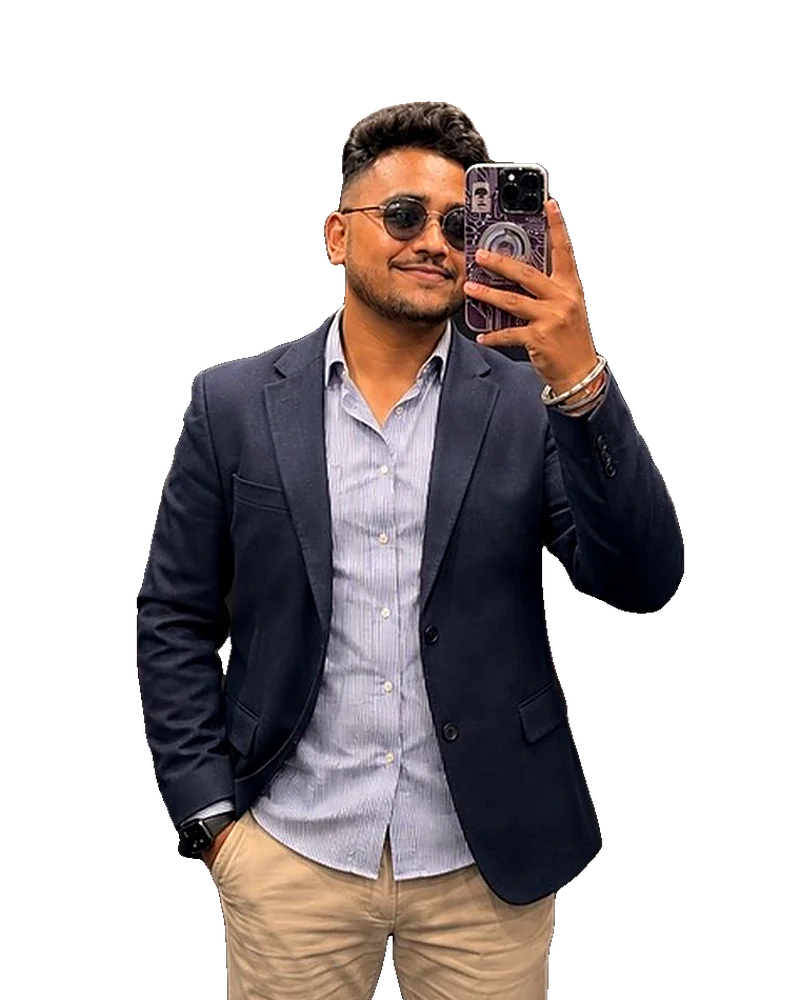
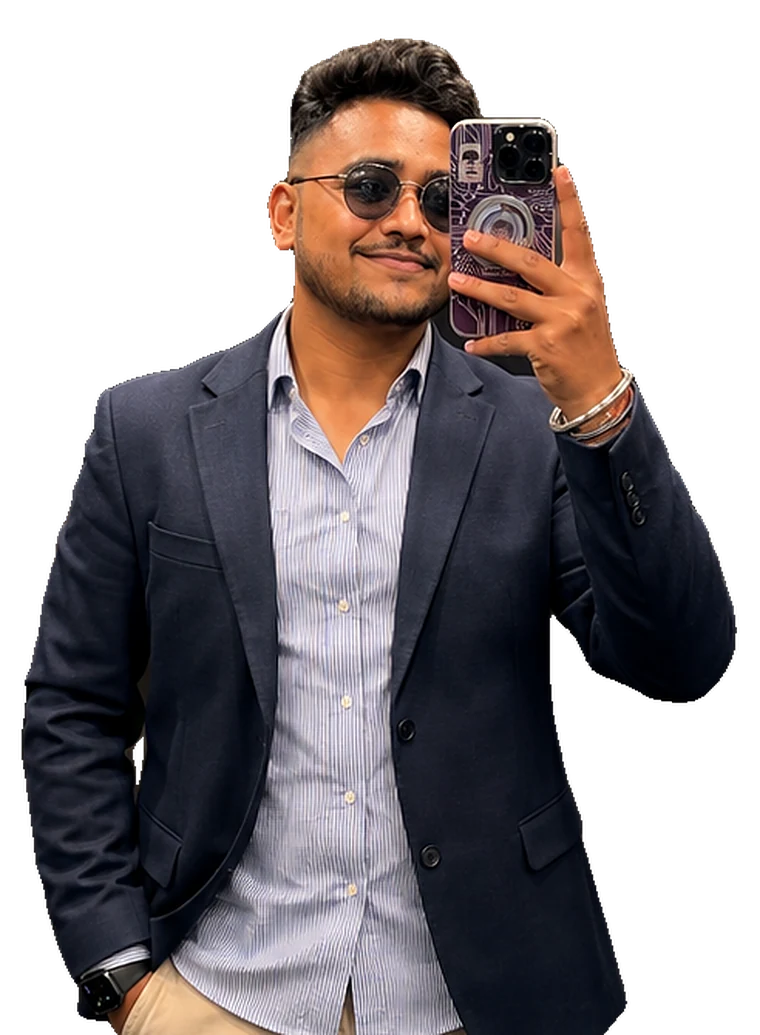
Hero: new cutout portrait standing on the line, name on one line, soft shadow
Claude-Session: https://claude.ai/code/session_01J7n3YQ4y9QiDkrJYfAYANg

diff --git a/dist/index.html b/dist/index.html
@@ -108,11 +108,18 @@ body::before{content:"";position:fixed;inset:0 0 auto;height:env(safe-area-inset
 .hero h1 .stop{display:inline-block;width:.17em;height:.17em;border-radius:50%;background:var(--research);margin-left:.04em;vertical-align:baseline}
 .lede{font-size:clamp(23px,2.5vw,31px);line-height:1.28;margin-top:26px;max-width:23ch}
 .lede span{display:block;color:var(--ink-3);font-style:italic;font-size:.7em;margin-top:10px}
-.portrait{margin:0;max-width:380px;justify-self:end;width:100%}
-.portrait .ph{position:relative;aspect-ratio:4/5;border-radius:3px;overflow:hidden;background:var(--paper-2)}
-.portrait .ph::before{content:"";position:absolute;width:71%;aspect-ratio:1;left:19%;top:4%;border-radius:50%;background:var(--build-soft)}
-.portrait img{position:relative;display:block;width:100%;height:100%;object-fit:cover;filter:drop-shadow(6px 10px 12px rgba(20,27,48,.18))}
-.portrait figcaption{font-family:var(--display);font-size:13px;color:var(--ink-3);margin-top:8px;display:flex;justify-content:space-between}
+.portrait{margin:0 0 -44px;max-width:380px;justify-self:end;width:100%;align-self:end}
+.portrait img{display:block;width:100%;height:auto;position:relative;filter:drop-shadow(-10px 16px 24px rgba(20,27,48,.22)) drop-shadow(0 2px 4px rgba(20,27,48,.12))}
+.portrait{position:relative}
+@media (min-width:901px){
+  .hero-grid{grid-template-columns:1fr;position:relative}
+  .hero h1{white-space:nowrap;font-size:clamp(70px,12.4vw,160px);position:relative;z-index:1}
+  .hero h1 br{display:none}
+  .hero-grid > div:first-child{position:relative;z-index:1;padding-top:40px}
+  .portrait{position:absolute;right:0;bottom:-44px;max-width:none;width:auto;margin:0;z-index:2;pointer-events:none}
+  .portrait img{height:clamp(400px,35vw,520px);width:auto;max-width:none}
+  .hero{padding-top:84px}
+}
 
 .now{margin-top:44px;display:grid;grid-template-columns:repeat(4,minmax(0,1fr));border-top:2px solid var(--ink);border-bottom:1px solid var(--rule)}
 .now div{padding:16px 18px 18px 0;display:flex;flex-direction:column;gap:6px;min-width:0}
@@ -372,7 +379,7 @@ section.block{padding-block:72px}
 
 /* ---------- responsive base ---------- */
 @media (max-width:1000px){.doors{grid-template-columns:repeat(2,minmax(0,1fr))}.now{grid-template-columns:repeat(2,minmax(0,1fr))}.now div:nth-child(3){padding-left:0;border-left:0}.now div:nth-child(-n+2){border-bottom:1px solid var(--rule)}}
-@media (max-width:900px){.hero-grid,.story-head{grid-template-columns:1fr}.portrait{justify-self:start;max-width:300px}}
+@media (max-width:900px){.hero-grid,.story-head{grid-template-columns:1fr}.portrait{justify-self:center;max-width:260px}}
 @media (max-width:560px){
   body{font-size:18px}
   .doors{grid-template-columns:1fr}.door{min-height:0}
@@ -427,13 +434,10 @@ section.block{padding-block:72px}
     <div class="hero-grid">
       <div>
         <p class="label">London · since 2020</p>
-        <h1><span class="ln" style="display:inline-block">Suraj</span><br><span class="ln" style="display:inline-block">Shaw<span class="stop" aria-hidden="true"></span></span></h1>
+        <h1><span class="ln" style="display:inline-block">Suraj</span> <br><span class="ln" style="display:inline-block">Shaw<span class="stop" aria-hidden="true"></span></span></h1>
         <p class="lede">I build systems by day and make drinks by night.<span>Most people call me Shaw.</span></p>
       </div>
-      <figure class="portrait">
-        <div class="ph"><img src="assets/shaw-portrait.webp" alt="Suraj Shaw in a navy blazer and sunglasses, holding up his phone for a selfie" width="800" height="1000"></div>
-        <figcaption><span>London.</span><span>2026</span></figcaption>
-      </figure>
+      <figure class="portrait"><img src="assets/shaw-portrait.webp" alt="Suraj Shaw in a navy blazer, striped shirt and chinos, taking a mirror selfie" width="760" height="1035"></figure>
     </div>
 
     <div class="now" aria-label="What I am doing right now">

diff --git a/dist/builder.html b/dist/builder.html
@@ -107,11 +107,18 @@ body::before{content:"";position:fixed;inset:0 0 auto;height:env(safe-area-inset
 .hero h1 .stop{display:inline-block;width:.17em;height:.17em;border-radius:50%;background:var(--research);margin-left:.04em;vertical-align:baseline}
 .lede{font-size:clamp(23px,2.5vw,31px);line-height:1.28;margin-top:26px;max-width:23ch}
 .lede span{display:block;color:var(--ink-3);font-style:italic;font-size:.7em;margin-top:10px}
-.portrait{margin:0;max-width:380px;justify-self:end;width:100%}
-.portrait .ph{position:relative;aspect-ratio:4/5;border-radius:3px;overflow:hidden;background:var(--paper-2)}
-.portrait .ph::before{content:"";position:absolute;width:71%;aspect-ratio:1;left:19%;top:4%;border-radius:50%;background:var(--build-soft)}
-.portrait img{position:relative;display:block;width:100%;height:100%;object-fit:cover;filter:drop-shadow(6px 10px 12px rgba(20,27,48,.18))}
-.portrait figcaption{font-family:var(--display);font-size:13px;color:var(--ink-3);margin-top:8px;display:flex;justify-content:space-between}
+.portrait{margin:0 0 -44px;max-width:380px;justify-self:end;width:100%;align-self:end}
+.portrait img{display:block;width:100%;height:auto;position:relative;filter:drop-shadow(-10px 16px 24px rgba(20,27,48,.22)) drop-shadow(0 2px 4px rgba(20,27,48,.12))}
+.portrait{position:relative}
+@media (min-width:901px){
+  .hero-grid{grid-template-columns:1fr;position:relative}
+  .hero h1{white-space:nowrap;font-size:clamp(70px,12.4vw,160px);position:relative;z-index:1}
+  .hero h1 br{display:none}
+  .hero-grid > div:first-child{position:relative;z-index:1;padding-top:40px}
+  .portrait{position:absolute;right:0;bottom:-44px;max-width:none;width:auto;margin:0;z-index:2;pointer-events:none}
+  .portrait img{height:clamp(400px,35vw,520px);width:auto;max-width:none}
+  .hero{padding-top:84px}
+}
 
 .now{margin-top:44px;display:grid;grid-template-columns:repeat(4,minmax(0,1fr));border-top:2px solid var(--ink);border-bottom:1px solid var(--rule)}
 .now div{padding:16px 18px 18px 0;display:flex;flex-direction:column;gap:6px;min-width:0}
@@ -371,7 +378,7 @@ section.block{padding-block:72px}
 
 /* ---------- responsive base ---------- */
 @media (max-width:1000px){.doors{grid-template-columns:repeat(2,minmax(0,1fr))}.now{grid-template-columns:repeat(2,minmax(0,1fr))}.now div:nth-child(3){padding-left:0;border-left:0}.now div:nth-child(-n+2){border-bottom:1px solid var(--rule)}}
-@media (max-width:900px){.hero-grid,.story-head{grid-template-columns:1fr}.portrait{justify-self:start;max-width:300px}}
+@media (max-width:900px){.hero-grid,.story-head{grid-template-columns:1fr}.portrait{justify-self:center;max-width:260px}}
 @media (max-width:560px){
   body{font-size:18px}
   .doors{grid-template-columns:1fr}.door{min-height:0}

diff --git a/dist/guardian.html b/dist/guardian.html
@@ -107,11 +107,18 @@ body::before{content:"";position:fixed;inset:0 0 auto;height:env(safe-area-inset
 .hero h1 .stop{display:inline-block;width:.17em;height:.17em;border-radius:50%;background:var(--research);margin-left:.04em;vertical-align:baseline}
 .lede{font-size:clamp(23px,2.5vw,31px);line-height:1.28;margin-top:26px;max-width:23ch}
 .lede span{display:block;color:var(--ink-3);font-style:italic;font-size:.7em;margin-top:10px}
-.portrait{margin:0;max-width:380px;justify-self:end;width:100%}
-.portrait .ph{position:relative;aspect-ratio:4/5;border-radius:3px;overflow:hidden;background:var(--paper-2)}
-.portrait .ph::before{content:"";position:absolute;width:71%;aspect-ratio:1;left:19%;top:4%;border-radius:50%;background:var(--build-soft)}
-.portrait img{position:relative;display:block;width:100%;height:100%;object-fit:cover;filter:drop-shadow(6px 10px 12px rgba(20,27,48,.18))}
-.portrait figcaption{font-family:var(--display);font-size:13px;color:var(--ink-3);margin-top:8px;display:flex;justify-content:space-between}
+.portrait{margin:0 0 -44px;max-width:380px;justify-self:end;width:100%;align-self:end}
+.portrait img{display:block;width:100%;height:auto;position:relative;filter:drop-shadow(-10px 16px 24px rgba(20,27,48,.22)) drop-shadow(0 2px 4px rgba(20,27,48,.12))}
+.portrait{position:relative}
+@media (min-width:901px){
+  .hero-grid{grid-template-columns:1fr;position:relative}
+  .hero h1{white-space:nowrap;font-size:clamp(70px,12.4vw,160px);position:relative;z-index:1}
+  .hero h1 br{display:none}
+  .hero-grid > div:first-child{position:relative;z-index:1;padding-top:40px}
+  .portrait{position:absolute;right:0;bottom:-44px;max-width:none;width:auto;margin:0;z-index:2;pointer-events:none}
+  .portrait img{height:clamp(400px,35vw,520px);width:auto;max-width:none}
+  .hero{padding-top:84px}
+}
 
 .now{margin-top:44px;display:grid;grid-template-columns:repeat(4,minmax(0,1fr));border-top:2px solid var(--ink);border-bottom:1px solid var(--rule)}
 .now div{padding:16px 18px 18px 0;display:flex;flex-direction:column;gap:6px;min-width:0}
@@ -371,7 +378,7 @@ section.block{padding-block:72px}
 
 /* ---------- responsive base ---------- */
 @media (max-width:1000px){.doors{grid-template-columns:repeat(2,minmax(0,1fr))}.now{grid-template-columns:repeat(2,minmax(0,1fr))}.now div:nth-child(3){padding-left:0;border-left:0}.now div:nth-child(-n+2){border-bottom:1px solid var(--rule)}}
-@media (max-width:900px){.hero-grid,.story-head{grid-template-columns:1fr}.portrait{justify-self:start;max-width:300px}}
+@media (max-width:900px){.hero-grid,.story-head{grid-template-columns:1fr}.portrait{justify-self:center;max-width:260px}}
 @media (max-width:560px){
   body{font-size:18px}
   .doors{grid-template-columns:1fr}.door{min-height:0}

diff --git a/dist/human.html b/dist/human.html
@@ -107,11 +107,18 @@ body::before{content:"";position:fixed;inset:0 0 auto;height:env(safe-area-inset
 .hero h1 .stop{display:inline-block;width:.17em;height:.17em;border-radius:50%;background:var(--research);margin-left:.04em;vertical-align:baseline}
 .lede{font-size:clamp(23px,2.5vw,31px);line-height:1.28;margin-top:26px;max-width:23ch}
 .lede span{display:block;color:var(--ink-3);font-style:italic;font-size:.7em;margin-top:10px}
-.portrait{margin:0;max-width:380px;justify-self:end;width:100%}
-.portrait .ph{position:relative;aspect-ratio:4/5;border-radius:3px;overflow:hidden;background:var(--paper-2)}
-.portrait .ph::before{content:"";position:absolute;width:71%;aspect-ratio:1;left:19%;top:4%;border-radius:50%;background:var(--build-soft)}
-.portrait img{position:relative;display:block;width:100%;height:100%;object-fit:cover;filter:drop-shadow(6px 10px 12px rgba(20,27,48,.18))}
-.portrait figcaption{font-family:var(--display);font-size:13px;color:var(--ink-3);margin-top:8px;display:flex;justify-content:space-between}
+.portrait{margin:0 0 -44px;max-width:380px;justify-self:end;width:100%;align-self:end}
+.portrait img{display:block;width:100%;height:auto;position:relative;filter:drop-shadow(-10px 16px 24px rgba(20,27,48,.22)) drop-shadow(0 2px 4px rgba(20,27,48,.12))}
+.portrait{position:relative}
+@media (min-width:901px){
+  .hero-grid{grid-template-columns:1fr;position:relative}
+  .hero h1{white-space:nowrap;font-size:clamp(70px,12.4vw,160px);position:relative;z-index:1}
+  .hero h1 br{display:none}
+  .hero-grid > div:first-child{position:relative;z-index:1;padding-top:40px}
+  .portrait{position:absolute;right:0;bottom:-44px;max-width:none;width:auto;margin:0;z-index:2;pointer-events:none}
+  .portrait img{height:clamp(400px,35vw,520px);width:auto;max-width:none}
+  .hero{padding-top:84px}
+}
 
 .now{margin-top:44px;display:grid;grid-template-columns:repeat(4,minmax(0,1fr));border-top:2px solid var(--ink);border-bottom:1px solid var(--rule)}
 .now div{padding:16px 18px 18px 0;display:flex;flex-direction:column;gap:6px;min-width:0}
@@ -371,7 +378,7 @@ section.block{padding-block:72px}
 
 /* ---------- responsive base ---------- */
 @media (max-width:1000px){.doors{grid-template-columns:repeat(2,minmax(0,1fr))}.now{grid-template-columns:repeat(2,minmax(0,1fr))}.now div:nth-child(3){padding-left:0;border-left:0}.now div:nth-child(-n+2){border-bottom:1px solid var(--rule)}}
-@media (max-width:900px){.hero-grid,.story-head{grid-template-columns:1fr}.portrait{justify-self:start;max-width:300px}}
+@media (max-width:900px){.hero-grid,.story-head{grid-template-columns:1fr}.portrait{justify-self:center;max-width:260px}}
 @media (max-width:560px){
   body{font-size:18px}
   .doors{grid-template-columns:1fr}.door{min-height:0}

diff --git a/dist/researcher.html b/dist/researcher.html
@@ -107,11 +107,18 @@ body::before{content:"";position:fixed;inset:0 0 auto;height:env(safe-area-inset
 .hero h1 .stop{display:inline-block;width:.17em;height:.17em;border-radius:50%;background:var(--research);margin-left:.04em;vertical-align:baseline}
 .lede{font-size:clamp(23px,2.5vw,31px);line-height:1.28;margin-top:26px;max-width:23ch}
 .lede span{display:block;color:var(--ink-3);font-style:italic;font-size:.7em;margin-top:10px}
-.portrait{margin:0;max-width:380px;justify-self:end;width:100%}
-.portrait .ph{position:relative;aspect-ratio:4/5;border-radius:3px;overflow:hidden;background:var(--paper-2)}
-.portrait .ph::before{content:"";position:absolute;width:71%;aspect-ratio:1;left:19%;top:4%;border-radius:50%;background:var(--build-soft)}
-.portrait img{position:relative;display:block;width:100%;height:100%;object-fit:cover;filter:drop-shadow(6px 10px 12px rgba(20,27,48,.18))}
-.portrait figcaption{font-family:var(--display);font-size:13px;color:var(--ink-3);margin-top:8px;display:flex;justify-content:space-between}
+.portrait{margin:0 0 -44px;max-width:380px;justify-self:end;width:100%;align-self:end}
+.portrait img{display:block;width:100%;height:auto;position:relative;filter:drop-shadow(-10px 16px 24px rgba(20,27,48,.22)) drop-shadow(0 2px 4px rgba(20,27,48,.12))}
+.portrait{position:relative}
+@media (min-width:901px){
+  .hero-grid{grid-template-columns:1fr;position:relative}
+  .hero h1{white-space:nowrap;font-size:clamp(70px,12.4vw,160px);position:relative;z-index:1}
+  .hero h1 br{display:none}
+  .hero-grid > div:first-child{position:relative;z-index:1;padding-top:40px}
+  .portrait{position:absolute;right:0;bottom:-44px;max-width:none;width:auto;margin:0;z-index:2;pointer-events:none}
+  .portrait img{height:clamp(400px,35vw,520px);width:auto;max-width:none}
+  .hero{padding-top:84px}
+}
 
 .now{margin-top:44px;display:grid;grid-template-columns:repeat(4,minmax(0,1fr));border-top:2px solid var(--ink);border-bottom:1px solid var(--rule)}
 .now div{padding:16px 18px 18px 0;display:flex;flex-direction:column;gap:6px;min-width:0}
@@ -371,7 +378,7 @@ section.block{padding-block:72px}
 
 /* ---------- responsive base ---------- */
 @media (max-width:1000px){.doors{grid-template-columns:repeat(2,minmax(0,1fr))}.now{grid-template-columns:repeat(2,minmax(0,1fr))}.now div:nth-child(3){padding-left:0;border-left:0}.now div:nth-child(-n+2){border-bottom:1px solid var(--rule)}}
-@media (max-width:900px){.hero-grid,.story-head{grid-template-columns:1fr}.portrait{justify-self:start;max-width:300px}}
+@media (max-width:900px){.hero-grid,.story-head{grid-template-columns:1fr}.portrait{justify-self:center;max-width:260px}}
 @media (max-width:560px){
   body{font-size:18px}
   .doors{grid-template-columns:1fr}.door{min-height:0}

diff --git a/src/styles.css b/src/styles.css
@@ -82,11 +82,18 @@ body::before{content:"";position:fixed;inset:0 0 auto;height:env(safe-area-inset
 .hero h1 .stop{display:inline-block;width:.17em;height:.17em;border-radius:50%;background:var(--research);margin-left:.04em;vertical-align:baseline}
 .lede{font-size:clamp(23px,2.5vw,31px);line-height:1.28;margin-top:26px;max-width:23ch}
 .lede span{display:block;color:var(--ink-3);font-style:italic;font-size:.7em;margin-top:10px}
-.portrait{margin:0;max-width:380px;justify-self:end;width:100%}
-.portrait .ph{position:relative;aspect-ratio:4/5;border-radius:3px;overflow:hidden;background:var(--paper-2)}
-.portrait .ph::before{content:"";position:absolute;width:71%;aspect-ratio:1;left:19%;top:4%;border-radius:50%;background:var(--build-soft)}
-.portrait img{position:relative;display:block;width:100%;height:100%;object-fit:cover;filter:drop-shadow(6px 10px 12px rgba(20,27,48,.18))}
-.portrait figcaption{font-family:var(--display);font-size:13px;color:var(--ink-3);margin-top:8px;display:flex;justify-content:space-between}
+.portrait{margin:0 0 -44px;max-width:380px;justify-self:end;width:100%;align-self:end}
+.portrait img{display:block;width:100%;height:auto;position:relative;filter:drop-shadow(-10px 16px 24px rgba(20,27,48,.22)) drop-shadow(0 2px 4px rgba(20,27,48,.12))}
+.portrait{position:relative}
+@media (min-width:901px){
+  .hero-grid{grid-template-columns:1fr;position:relative}
+  .hero h1{white-space:nowrap;font-size:clamp(70px,12.4vw,160px);position:relative;z-index:1}
+  .hero h1 br{display:none}
+  .hero-grid > div:first-child{position:relative;z-index:1;padding-top:40px}
+  .portrait{position:absolute;right:0;bottom:-44px;max-width:none;width:auto;margin:0;z-index:2;pointer-events:none}
+  .portrait img{height:clamp(400px,35vw,520px);width:auto;max-width:none}
+  .hero{padding-top:84px}
+}
 
 .now{margin-top:44px;display:grid;grid-template-columns:repeat(4,minmax(0,1fr));border-top:2px solid var(--ink);border-bottom:1px solid var(--rule)}
 .now div{padding:16px 18px 18px 0;display:flex;flex-direction:column;gap:6px;min-width:0}
@@ -346,7 +353,7 @@ section.block{padding-block:72px}
 
 /* ---------- responsive base ---------- */
 @media (max-width:1000px){.doors{grid-template-columns:repeat(2,minmax(0,1fr))}.now{grid-template-columns:repeat(2,minmax(0,1fr))}.now div:nth-child(3){padding-left:0;border-left:0}.now div:nth-child(-n+2){border-bottom:1px solid var(--rule)}}
-@media (max-width:900px){.hero-grid,.story-head{grid-template-columns:1fr}.portrait{justify-self:start;max-width:300px}}
+@media (max-width:900px){.hero-grid,.story-head{grid-template-columns:1fr}.portrait{justify-self:center;max-width:260px}}
 @media (max-width:560px){
   body{font-size:18px}
   .doors{grid-template-columns:1fr}.door{min-height:0}

diff --git a/src/pages/index.html b/src/pages/index.html
@@ -4,13 +4,10 @@
     <div class="hero-grid">
       <div>
         <p class="label">London · since 2020</p>
-        <h1><span class="ln" style="display:inline-block">Suraj</span><br><span class="ln" style="display:inline-block">Shaw<span class="stop" aria-hidden="true"></span></span></h1>
+        <h1><span class="ln" style="display:inline-block">Suraj</span> <br><span class="ln" style="display:inline-block">Shaw<span class="stop" aria-hidden="true"></span></span></h1>
         <p class="lede">I build systems by day and make drinks by night.<span>Most people call me Shaw.</span></p>
       </div>
-      <figure class="portrait">
-        <div class="ph"><img src="assets/shaw-portrait.webp" alt="Suraj Shaw in a navy blazer and sunglasses, holding up his phone for a selfie" width="800" height="1000"></div>
-        <figcaption><span>London.</span><span>2026</span></figcaption>
-      </figure>
+      <figure class="portrait"><img src="assets/shaw-portrait.webp" alt="Suraj Shaw in a navy blazer, striped shirt and chinos, taking a mirror selfie" width="760" height="1035"></figure>
     </div>
 
     <div class="now" aria-label="What I am doing right now">
